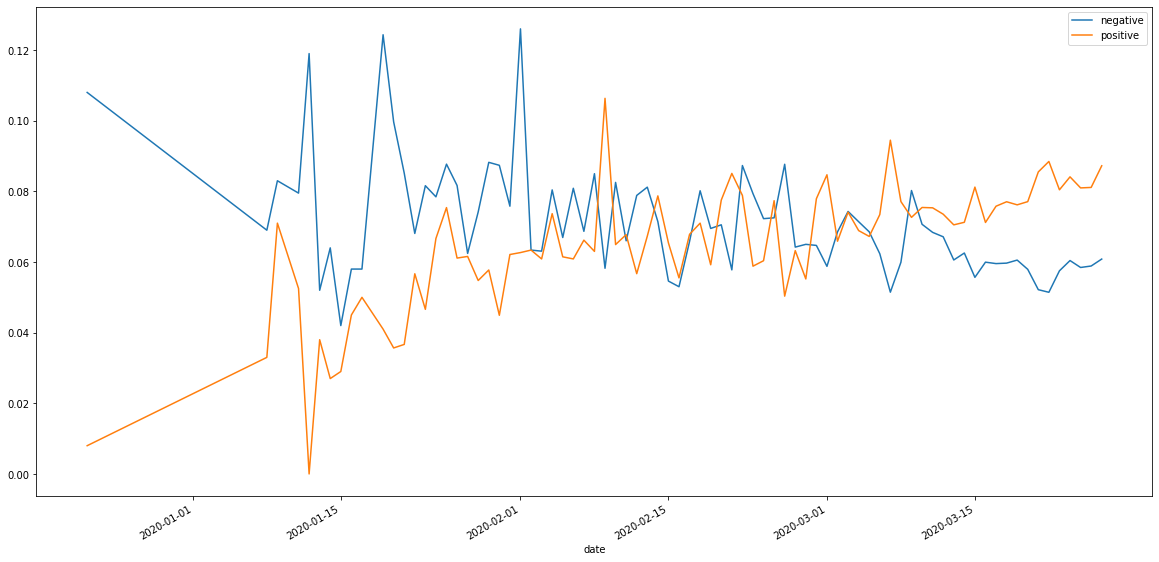
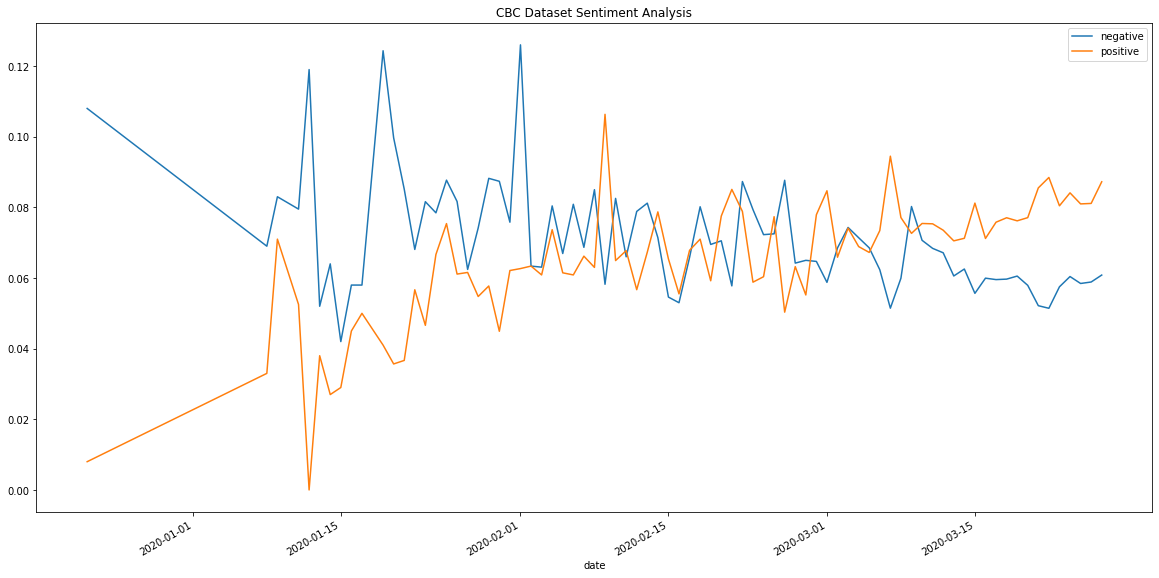
create gitignore and new file

diff --git a/CBCAnalysis.py b/CBCAnalysis.py
@@ -10,18 +10,16 @@ df['publish_date'] = pd.to_datetime(df['publish_date'])
 df = df[df['publish_date']>pd.to_datetime('2019')]
 
 sid = SentimentIntensityAnalyzer()
-
 data = pd.DataFrame(columns=['date', 'negative', 'positive'])
+
 for row in df.itertuples():
-   
     text = row.text
     ss = sid.polarity_scores(text)
-    
     data = data.append({
       'date':row.publish_date,
       'negative':ss['neg'],
       'positive':ss['pos']
       },ignore_index=True)
+
 data = data.groupby('date').mean()
-print(data)
-data.plot(figsize=(20,10))
+data.plot(figsize=(20,10),title='CBC Dataset Sentiment Analysis')

diff --git a/NewsAPIAnalysis.py b/NewsAPIAnalysis.py
@@ -1,0 +1,5 @@
+import os
+from dotenv import load_dotenv
+from pyspark import SparkContext, SparkConf
+
+load_dotenv()
